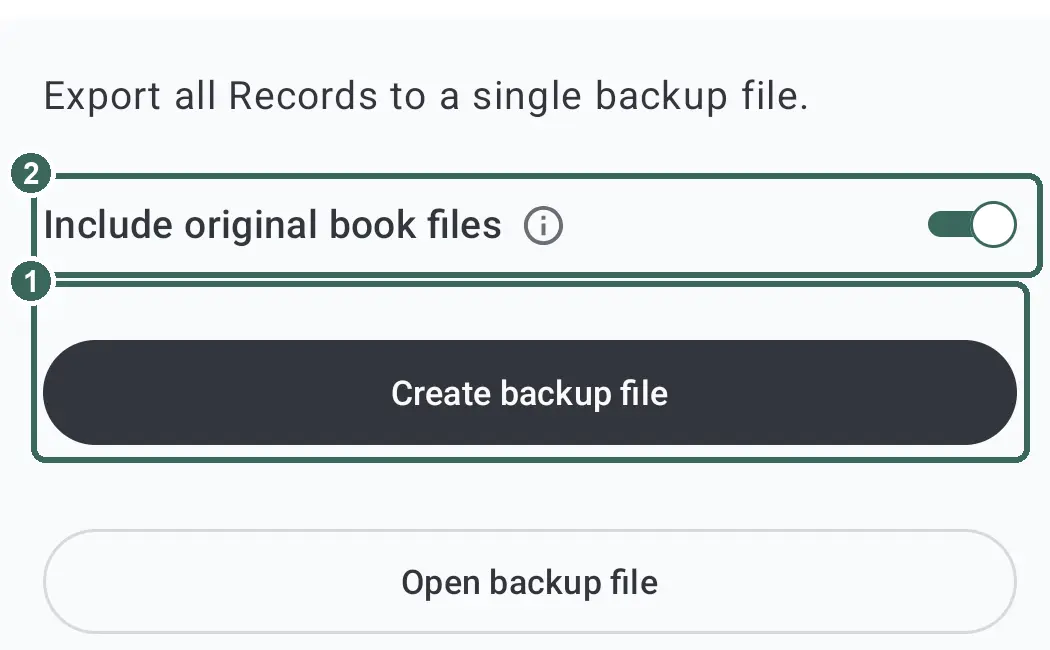
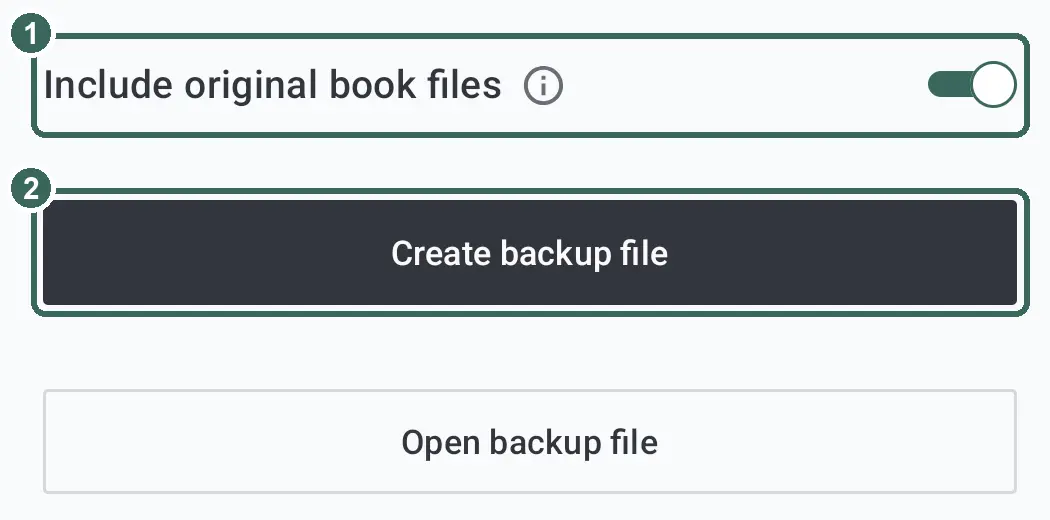
docs: 사용법 그림을 새 화면으로 바꾼다

diff --git a/index.html b/index.html
@@ -20,7 +20,7 @@ figcaption { margin-top: 6px; font-size: .875rem; color: #555; }
 <main id="top">
 <p><a href="en/" lang="en" hreflang="en">English</a></p>
 <h1>사용법</h1>
-<p class="date">최종 수정일: 2026년 10월 24일</p>
+<p class="date">최종 수정일: 2026년 10월 27일</p>
 <nav class="toc"><ol>
 <li><a href="#s1">책 넣기</a></li>
 <li><a href="#s2">읽기·보기 설정</a></li>
@@ -36,18 +36,18 @@ figcaption { margin-top: 6px; font-size: .875rem; color: #555; }
 <h2 id="s1">책 넣기</h2>
 <p>My의 &#x27;책 파일 추가&#x27;에서 &#x27;파일 추가하기&#x27;를 누릅니다. EPUB·PDF·TXT 형식은 자동으로 판별합니다.</p>
 <p>여러 권은 &#x27;지정 폴더에서 책 추가하기&#x27;에서 고릅니다. 등록한 파일은 앱 안에 복사됩니다.</p>
-<figure><img src="img/guide_s1_1.webp" alt="" loading="lazy" width="1080" height="410"><figcaption>1 지정 폴더에서 책 추가하기 · 2 파일 추가하기</figcaption></figure>
+<figure><img src="img/guide_s1_1.webp" alt="" loading="lazy" width="1080" height="380"><figcaption>1 지정 폴더에서 책 추가하기 · 2 파일 추가하기</figcaption></figure>
 <p>같은 작품에 파일을 더 붙이려면 작품 정보의 &#x27;파일&#x27; 줄에서 &#x27;+ 파일 추가&#x27;를 누릅니다.</p>
 <p>표지를 누르고 &#x27;파일 표지 중에서 고르기&#x27;나 &#x27;갤러리에서 고르기&#x27;를 누릅니다.</p>
 <figure><img src="img/guide_s1_2.webp" alt="" loading="lazy" width="1000" height="612"><figcaption>1 표지(누르면 표지 바꾸기) · 2 + 파일 추가</figcaption></figure>
 <p class="top"><a href="#top">맨 위로</a></p>
 <h2 id="s2">읽기·보기 설정</h2>
 <p>책을 열고 화면 가운데를 누르면 메뉴가 열립니다. 다시 누르면 닫힙니다.</p>
-<figure><img src="img/guide_s2_1.webp" alt="" loading="lazy" width="1080" height="1034"><figcaption>1 화면 가운데 · 2 뷰어 설정 · 3 보기 설정</figcaption></figure>
+<figure><img src="img/guide_s2_1.webp" alt="" loading="lazy" width="1066" height="1080"><figcaption>1 화면 가운데 · 2 뷰어 설정 · 3 보기 설정</figcaption></figure>
 <p>&#x27;뷰어 설정&#x27;의 &#x27;페이지 넘김 터치 영역&#x27;에서 방향을 고릅니다. 기본인 &#x27;좌우&#x27;는 왼쪽이 이전 쪽, 오른쪽이 다음 쪽이며 &#x27;상하&#x27;는 위가 이전 쪽, 아래가 다음 쪽입니다.</p>
 <p>EPUB·TXT는 &#x27;보기 설정&#x27;에서 글꼴·글자 크기·간격·배경을 조절합니다. 원본 PDF는 글자 크기를 바꾸지 않습니다. &#x27;보기 설정&#x27;의 &#x27;화면&#x27;에서 &#x27;전체 화면&#x27;을 켜면 읽는 동안 위쪽 상태 표시줄이 사라집니다.</p>
 <p>&#x27;스크롤 보기&#x27;에서는 화면을 밀어 읽습니다. 가장자리 터치로는 쪽을 넘기지 않습니다.</p>
-<figure><img src="img/guide_s2_2.webp" alt="" loading="lazy" width="1060" height="690"><figcaption>1 스크롤 보기 · 2 페이지 넘김 터치 영역</figcaption></figure>
+<figure><img src="img/guide_s2_2.webp" alt="" loading="lazy" width="1043" height="700"><figcaption>1 스크롤 보기 · 2 페이지 넘김 터치 영역</figcaption></figure>
 <p class="top"><a href="#top">맨 위로</a></p>
 <h2 id="s3">형광펜·메모·책갈피</h2>
 <p>EPUB·TXT에서 문장을 길게 누르고 범위를 조절한 뒤 색 버튼을 누릅니다. 남긴 형광펜을 누르면 색을 바꿀 수 있습니다.</p>
@@ -60,10 +60,10 @@ figcaption { margin-top: 6px; font-size: .875rem; color: #555; }
 <h2 id="s4">TTS 듣기</h2>
 <p>읽기 화면 아래 바의 &#x27;듣기&#x27;를 누르면 지금 보는 쪽부터 소리로 읽어 줍니다. 기기에 한국어 음성이 없으면 설치 안내가 먼저 뜹니다.</p>
 <p>재생 바에서 문장 앞뒤 이동, 속도, &#x27;듣기 타이머&#x27;, &#x27;터치 잠금&#x27;을 다룹니다. 본문 문장을 누르면 그 문장부터 읽고, 톱니 모양 버튼은 &#x27;듣기 설정&#x27;을 엽니다.</p>
-<figure><img src="img/guide_s4_1.webp" alt="" loading="lazy" width="1052" height="274"><figcaption>1 이전·다음 문장 · 2 속도 · 3 듣기 타이머 · 4 터치 잠금 · 5 듣기 설정</figcaption></figure>
+<figure><img src="img/guide_s4_1.webp" alt="" loading="lazy" width="1052" height="286"><figcaption>1 이전·다음 문장 · 2 속도 · 3 듣기 타이머 · 4 터치 잠금 · 5 듣기 설정</figcaption></figure>
 <p>&#x27;듣기 설정&#x27;에서 지문·대사·속마음의 목소리를 따로 고르고 &#x27;미리듣기&#x27;로 들어 봅니다. 말줄임표·장면 전환·줄표 뒤에 쉬는 길이도 각각 정합니다.</p>
 <p>&#x27;읽기 규칙&#x27;에서는 「 」 〈 〉 《 》 &lt; &gt; 안을 대사로 읽기, 대괄호 [ ] 안 내용 읽기, 메신저 대화 정리, 웃음·감탄 반복 줄이기를 켜고 끕니다. &#x27;이 작품에서 읽지 않을 말&#x27;에 넣은 단어는 그 작품에서 건너뜁니다.</p>
-<figure><img src="img/guide_s4_2.webp" alt="" loading="lazy" width="779" height="1080"><figcaption>1 목소리 · 2 화면 따라가기 · 3 읽기 규칙</figcaption></figure>
+<figure><img src="img/guide_s4_2.webp" alt="" loading="lazy" width="765" height="1080"><figcaption>1 목소리 · 2 화면 따라가기 · 3 읽기 규칙</figcaption></figure>
 <p>&#x27;화면 따라가기&#x27;를 켜면 읽는 문장을 따라 쪽이 넘어가고, 끄면 듣는 중에도 다른 쪽을 자유롭게 봅니다. 앱을 벗어나거나 화면이 꺼져도 계속 읽고, 읽기 화면을 나가면 멈춥니다. 다음에 &#x27;듣기&#x27;를 다시 누르면 &#x27;이어 듣기&#x27;로 듣던 문장부터 듣습니다.</p>
 <p class="top"><a href="#top">맨 위로</a></p>
 <h2 id="s5">감상 쓰기</h2>
@@ -83,7 +83,7 @@ figcaption { margin-top: 6px; font-size: .875rem; color: #555; }
 <p class="top"><a href="#top">맨 위로</a></p>
 <h2 id="s7">달력·통계</h2>
 <p>뷰어로 읽거나 감상을 남기면 읽은 날이 기록됩니다. &#x27;달력&#x27;에서 날짜를 누르고 &#x27;작품 추가&#x27;로 빠진 기록을 채웁니다.</p>
-<figure><img src="img/guide_s7_1.webp" alt="" loading="lazy" width="765" height="1080"><figcaption>1 날짜 · 2 작품 추가</figcaption></figure>
+<figure><img src="img/guide_s7_1.webp" alt="" loading="lazy" width="769" height="1080"><figcaption>1 날짜 · 2 작품 추가</figcaption></figure>
 <p>&#x27;연간&#x27;에서는 한 해의 읽은 날을 봅니다. &#x27;연속 읽은 날&#x27;에서는 현재와 최장 기록을 봅니다.</p>
 <p>&#x27;통계&#x27;의 &#x27;이달 요약&#x27;에서 &#x27;읽은 작품&#x27;과 &#x27;감상 수&#x27;는 감상 기록 기준입니다. &#x27;독서일&#x27;은 읽은 날의 수입니다.</p>
 <figure><img src="img/guide_s7_2.webp" alt="" loading="lazy" width="1050" height="775"><figcaption>1 이달 요약 · 2 연속 읽은 날</figcaption></figure>
@@ -91,20 +91,20 @@ figcaption { margin-top: 6px; font-size: .875rem; color: #555; }
 <h2 id="s8">백업</h2>
 <p>My의 &#x27;백업&#x27;에서 &#x27;백업 파일 만들기&#x27;로 기록과 설정을 저장합니다. 암호는 8자 이상으로 정하며, 잊으면 백업을 복구하지 못합니다.</p>
 <p>&#x27;책 원본 파일 포함&#x27;은 처음에 켜져 있습니다. 끄면 복원한 뒤 책 파일을 다시 등록해야 합니다.</p>
-<figure><img src="img/guide_s8_1.webp" alt="" loading="lazy" width="1050" height="650"><figcaption>1 책 원본 파일 포함 · 2 백업 파일 만들기</figcaption></figure>
+<figure><img src="img/guide_s8_1.webp" alt="" loading="lazy" width="1050" height="520"><figcaption>1 책 원본 파일 포함 · 2 백업 파일 만들기</figcaption></figure>
 <p>&#x27;백업 불러오기&#x27;에서 파일을 확인하고 &#x27;이 백업으로 복원&#x27;을 누릅니다. 현재 기록과 설정이 백업 내용으로 바뀝니다.</p>
 <figure><img src="img/guide_s8_2.webp" alt="" loading="lazy" width="1050" height="980"><figcaption>1 이 백업으로 복원</figcaption></figure>
 <p class="top"><a href="#top">맨 위로</a></p>
 <h2 id="s9">이잉크 기기에서</h2>
 <p>전자잉크 화면에서는 My의 &#x27;앱 전체 고대비 (이잉크)&#x27;를 켭니다. 밝은 테마에서만 글자와 선의 대비를 높입니다.</p>
-<figure><img src="img/guide_s9_2.webp" alt="" loading="lazy" width="1060" height="173"><figcaption>1 앱 전체 고대비</figcaption></figure>
+<figure><img src="img/guide_s9_2.webp" alt="" loading="lazy" width="1041" height="158"><figcaption>1 앱 전체 고대비</figcaption></figure>
 <p>읽기 화면의 &#x27;뷰어 설정&#x27;에서 &#x27;이잉크 모드&#x27;를 따로 켭니다. 흰 배경과 검은 글자로 바뀌며 화면 움직임과 페이지 전환 효과를 줄입니다.</p>
 <p>잔상이 남으면 &#x27;주기적 전체 새로 고침&#x27;을 켜고 &#x27;전체 새로 고침 주기&#x27;를 정합니다. 정한 쪽수마다 화면 전체를 다시 그립니다.</p>
-<figure><img src="img/guide_s9_1.webp" alt="" loading="lazy" width="1060" height="430"><figcaption>1 이잉크 모드 · 2 주기적 전체 새로 고침 · 3 전체 새로 고침 주기</figcaption></figure>
+<figure><img src="img/guide_s9_1.webp" alt="" loading="lazy" width="1043" height="393"><figcaption>1 이잉크 모드 · 2 주기적 전체 새로 고침 · 3 전체 새로 고침 주기</figcaption></figure>
 <p class="top"><a href="#top">맨 위로</a></p>
 <h2 id="s10">드롭박스</h2>
 <p>My의 ‘드롭박스 동기화’에서 ‘드롭박스 연결’을 누릅니다. 각 기기에 같은 책 파일이 있으면 읽던 위치·책갈피·형광펜과 메모를 자동으로 동기화합니다.</p>
-<figure><img src="img/guide_s10_1.webp" alt="" loading="lazy" width="1080" height="990"><figcaption>1 연결하기 전에 · 2 드롭박스 연결</figcaption></figure>
+<figure><img src="img/guide_s10_1.webp" alt="" loading="lazy" width="1080" height="800"><figcaption>1 연결하기 전에 · 2 드롭박스 연결</figcaption></figure>
 <p>서재 화면 위 ‘드롭박스’ 탭을 누릅니다. ☰로 폴더 목록을 열고 책이 있는 폴더를 고릅니다.</p>
 <p>책을 누르면 파일을 받아 서재에 추가하고 엽니다.</p>
 <figure><img src="img/guide_s10_2.webp" alt="" loading="lazy" width="1050" height="1063"><figcaption>1 폴더 목록 열기(☰) · 2 책(누르면 받아서 열기)</figcaption></figure>

diff --git a/en/index.html b/en/index.html
@@ -20,7 +20,7 @@ figcaption { margin-top: 6px; font-size: .875rem; color: #555; }
 <main id="top">
 <p><a href="../" lang="ko" hreflang="ko">한국어</a></p>
 <h1>User guide</h1>
-<p class="date">Last updated: October 24, 2026</p>
+<p class="date">Last updated: October 27, 2026</p>
 <nav class="toc"><ol>
 <li><a href="#s1">Add books</a></li>
 <li><a href="#s2">Reading and appearance</a></li>
@@ -36,18 +36,18 @@ figcaption { margin-top: 6px; font-size: .875rem; color: #555; }
 <h2 id="s1">Add books</h2>
 <p>In My, open &#x27;Add book files&#x27; and tap &#x27;Add a file&#x27;. EPUB, PDF, and TXT formats are detected automatically.</p>
 <p>Choose several books with &#x27;Add books from a folder&#x27;. Added files are copied into the app.</p>
-<figure><img src="../img/en/guide_s1_1.webp" alt="" loading="lazy" width="1080" height="405"><figcaption>1 Add books from a folder · 2 Add a file</figcaption></figure>
+<figure><img src="../img/en/guide_s1_1.webp" alt="" loading="lazy" width="1080" height="375"><figcaption>1 Add books from a folder · 2 Add a file</figcaption></figure>
 <p>To attach more files to a work, tap &#x27;+ Add file&#x27; in the &#x27;File&#x27; row on the work info screen.</p>
 <p>Tap the cover and choose &#x27;Choose from file covers&#x27; or &#x27;Choose from gallery&#x27;.</p>
 <figure><img src="../img/guide_s1_2.webp" alt="" loading="lazy" width="1000" height="612"><figcaption>1 Cover (tap to change) · 2 + Add file</figcaption></figure>
 <p class="top"><a href="#top">Scroll to top</a></p>
 <h2 id="s2">Reading and appearance</h2>
 <p>Open a book and tap the center to open the menu. Tap again to close it.</p>
-<figure><img src="../img/en/guide_s2_1.webp" alt="" loading="lazy" width="1080" height="1034"><figcaption>1 Screen center · 2 Viewer settings · 3 Appearance</figcaption></figure>
+<figure><img src="../img/en/guide_s2_1.webp" alt="" loading="lazy" width="1066" height="1080"><figcaption>1 Screen center · 2 Viewer settings · 3 Appearance</figcaption></figure>
 <p>Choose &#x27;Page-turn tap zones&#x27; in &#x27;Viewer settings&#x27;. The default, &#x27;Left and right&#x27;, uses left for the previous page and right for the next; &#x27;Top and bottom&#x27; uses top for previous and bottom for next.</p>
 <p>For EPUB and TXT, adjust the font, text size, spacing, and background in &#x27;Appearance&#x27;. Text size stays fixed in original PDFs. Turn on &#x27;Full screen&#x27; in &#x27;Appearance&#x27; → &#x27;Screen&#x27; to hide the status bar while reading.</p>
 <p>With &#x27;Scroll view&#x27;, swipe to read. Tapping the edges does not turn pages.</p>
-<figure><img src="../img/guide_s2_2.webp" alt="" loading="lazy" width="1060" height="690"><figcaption>1 Scroll view · 2 Tap zones</figcaption></figure>
+<figure><img src="../img/guide_s2_2.webp" alt="" loading="lazy" width="1043" height="700"><figcaption>1 Scroll view · 2 Tap zones</figcaption></figure>
 <p class="top"><a href="#top">Scroll to top</a></p>
 <h2 id="s3">Highlights, memos, and bookmarks</h2>
 <p>In EPUB and TXT, hold a sentence, adjust the selection, and tap a color button. Tap a saved highlight to change its color.</p>
@@ -60,10 +60,10 @@ figcaption { margin-top: 6px; font-size: .875rem; color: #555; }
 <h2 id="s4">TTS listening</h2>
 <p>Tap &#x27;Listen&#x27; in the bar at the bottom of the reading screen to have the current page read aloud. If your device has no Korean voice, an install prompt appears first.</p>
 <p>The playback bar moves between sentences and controls speed, &#x27;Listening timer&#x27; and &#x27;Touch lock&#x27;. Tap a sentence in the text to read from there; the gear button opens &#x27;Listening settings&#x27;.</p>
-<figure><img src="../img/guide_s4_1.webp" alt="" loading="lazy" width="1052" height="274"><figcaption>1 Previous · next sentence · 2 Speed · 3 Listening timer · 4 Touch lock · 5 Listening settings</figcaption></figure>
+<figure><img src="../img/guide_s4_1.webp" alt="" loading="lazy" width="1052" height="286"><figcaption>1 Previous · next sentence · 2 Speed · 3 Listening timer · 4 Touch lock · 5 Listening settings</figcaption></figure>
 <p>In &#x27;Listening settings&#x27;, choose separate voices for narration, dialogue and inner thoughts and try them with &#x27;Preview&#x27;. Set how long to pause after an ellipsis, a scene break and a dash.</p>
 <p>&#x27;Reading rules&#x27; switch on or off reading text inside 「 」 〈 〉 《 》 &lt; &gt; as dialogue, reading text inside square brackets [ ], simplifying messenger conversations, and shortening repeated laughter. Words added to &#x27;Words to skip in this work&#x27; are skipped in that work.</p>
-<figure><img src="../img/guide_s4_2.webp" alt="" loading="lazy" width="779" height="1080"><figcaption>1 Voice · 2 Follow narration · 3 Reading rules</figcaption></figure>
+<figure><img src="../img/guide_s4_2.webp" alt="" loading="lazy" width="765" height="1080"><figcaption>1 Voice · 2 Follow narration · 3 Reading rules</figcaption></figure>
 <p>Turn on &#x27;Follow narration&#x27; to turn pages along with the reading; turn it off to browse other pages freely while listening. Reading continues when you leave the app or the screen turns off, and stops when you leave the reading screen. Tap &#x27;Listen&#x27; again later to pick up where you left off with &#x27;Continue listening&#x27;.</p>
 <p class="top"><a href="#top">Scroll to top</a></p>
 <h2 id="s5">Write notes</h2>
@@ -83,7 +83,7 @@ figcaption { margin-top: 6px; font-size: .875rem; color: #555; }
 <p class="top"><a href="#top">Scroll to top</a></p>
 <h2 id="s7">Calendar and statistics</h2>
 <p>Reading in the viewer or saving a note records a reading day. Tap a date in &#x27;Calendar&#x27; and use &#x27;Add book&#x27; to fill in missing records.</p>
-<figure><img src="../img/guide_s7_1.webp" alt="" loading="lazy" width="765" height="1080"><figcaption>1 Date · 2 Add book</figcaption></figure>
+<figure><img src="../img/guide_s7_1.webp" alt="" loading="lazy" width="769" height="1080"><figcaption>1 Date · 2 Add book</figcaption></figure>
 <p>See a year’s reading days in &#x27;Year&#x27;. See your current and longest streaks in &#x27;Reading streak&#x27;.</p>
 <p>In &#x27;Monthly summary&#x27; under &#x27;Stats&#x27;, &#x27;Books read&#x27; and &#x27;Notes&#x27; are based on saved notes. &#x27;Reading days&#x27; counts the days you read.</p>
 <figure><img src="../img/guide_s7_2.webp" alt="" loading="lazy" width="1050" height="775"><figcaption>1 Monthly summary · 2 Reading streak</figcaption></figure>
@@ -91,20 +91,20 @@ figcaption { margin-top: 6px; font-size: .875rem; color: #555; }
 <h2 id="s8">Backup</h2>
 <p>In My, open &#x27;Backup&#x27; and use &#x27;Create backup file&#x27; to save records and settings. Backups use a password of at least eight characters by default; if forgotten, the backup cannot be recovered.</p>
 <p>&#x27;Include original book files&#x27; is on at first. Turn it off and you will need to add the book files again after restoring.</p>
-<figure><img src="../img/en/guide_s8_1.webp" alt="" loading="lazy" width="1050" height="650"><figcaption>1 Include original book files · 2 Create backup file</figcaption></figure>
+<figure><img src="../img/en/guide_s8_1.webp" alt="" loading="lazy" width="1050" height="520"><figcaption>1 Include original book files · 2 Create backup file</figcaption></figure>
 <p>Choose and review a file with &#x27;Open backup file&#x27;, then tap &#x27;Restore this backup&#x27;. The backup replaces your current records and settings.</p>
 <figure><img src="../img/guide_s8_2.webp" alt="" loading="lazy" width="1050" height="980"><figcaption>1 Restore this backup</figcaption></figure>
 <p class="top"><a href="#top">Scroll to top</a></p>
 <h2 id="s9">On e-ink devices</h2>
 <p>For electronic ink displays, turn on &#x27;App-wide high contrast (E Ink)&#x27; in My. It increases text and line contrast in the light theme only.</p>
-<figure><img src="../img/guide_s9_2.webp" alt="" loading="lazy" width="1060" height="173"><figcaption>1 App-wide high contrast</figcaption></figure>
+<figure><img src="../img/guide_s9_2.webp" alt="" loading="lazy" width="1041" height="158"><figcaption>1 App-wide high contrast</figcaption></figure>
 <p>Separately enable &#x27;E Ink mode&#x27; in &#x27;Viewer settings&#x27; on the reading screen. It uses a white background and black text and reduces animations and page-turn effects.</p>
 <p>For lingering images, enable &#x27;Periodic full refresh&#x27; and set &#x27;Full refresh interval&#x27;. The whole screen redraws after the chosen number of pages.</p>
-<figure><img src="../img/guide_s9_1.webp" alt="" loading="lazy" width="1060" height="430"><figcaption>1 E Ink mode · 2 Periodic full refresh · 3 Full refresh interval</figcaption></figure>
+<figure><img src="../img/guide_s9_1.webp" alt="" loading="lazy" width="1043" height="393"><figcaption>1 E Ink mode · 2 Periodic full refresh · 3 Full refresh interval</figcaption></figure>
 <p class="top"><a href="#top">Scroll to top</a></p>
 <h2 id="s10">Dropbox</h2>
 <p>In My, open ‘Dropbox sync’ and tap ‘Connect Dropbox’. Reading position, bookmarks, and highlights with notes sync automatically when each device has the same book file.</p>
-<figure><img src="../img/guide_s10_1.webp" alt="" loading="lazy" width="1080" height="990"><figcaption>1 Before you connect · 2 Connect Dropbox</figcaption></figure>
+<figure><img src="../img/guide_s10_1.webp" alt="" loading="lazy" width="1080" height="800"><figcaption>1 Before you connect · 2 Connect Dropbox</figcaption></figure>
 <p>Tap the ‘Dropbox’ tab at the top of Library. Tap ☰ to open the folder list and choose the folder containing your books.</p>
 <p>Tap a book to download it, add it to your library, and open it.</p>
 <figure><img src="../img/guide_s10_2.webp" alt="" loading="lazy" width="1050" height="1063"><figcaption>1 Open folder list (☰) · 2 Book (tap to download and open)</figcaption></figure>
